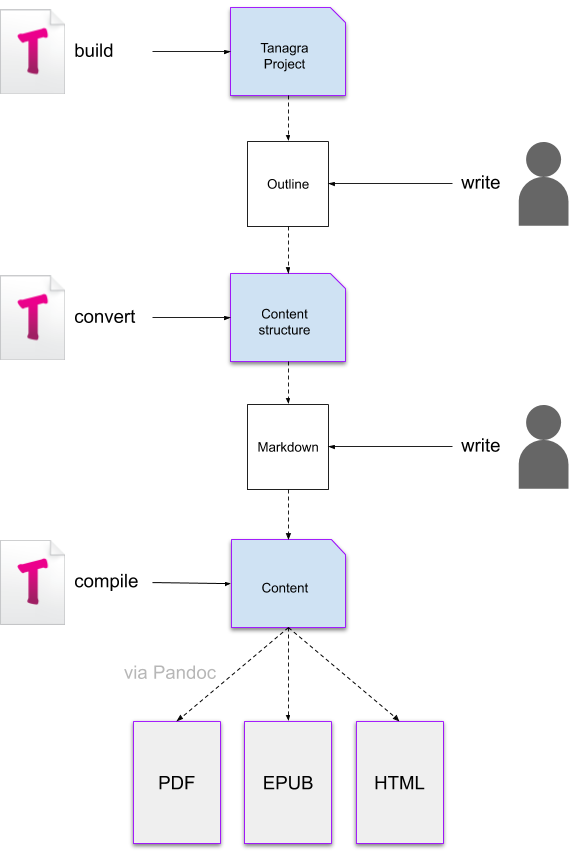
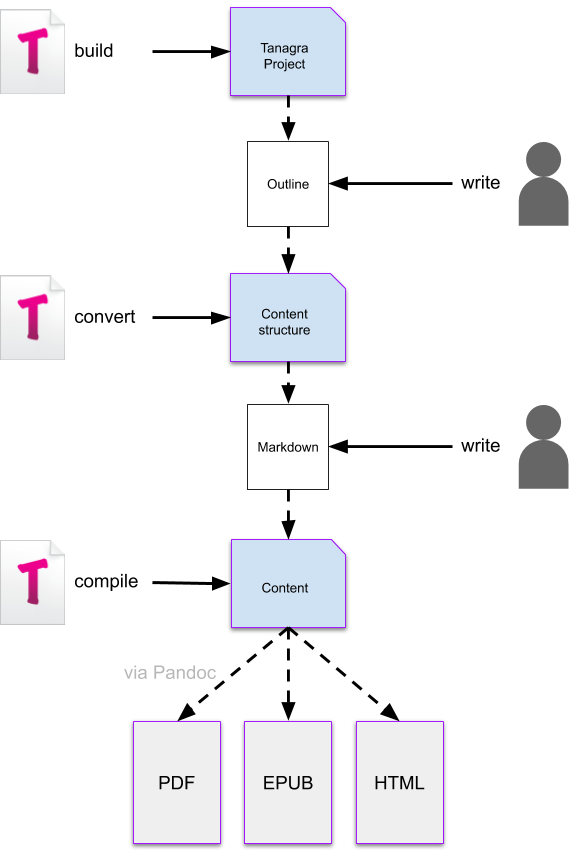
Thickening lines in diagrams.

diff --git a/docs/overview.md b/docs/overview.md
@@ -16,8 +16,8 @@ Tanagra is a documentation pipeline tool for building a template for a markdown-
 1. **Decide on a topic for your book.** Tangara cannot help you with this step. :)
 1. **Create a book template using Tanagra.** This will generate a book content directory, an `outline.md` file,
 1. **Populate your book's `outline.md` file.** Using markdown, populate the `outline.md` file generated in step 1 above. See the outline structure below.
-1. **Convert your book's `outline.md` file into a book directory hierarchy and markdown files.** This step will create a hierarchy of directories (per part and chapter) and markdown files (per chapter) with sections and subsections stubbed out in the markdown files.
-1. **Write your book in the markdown files.** Using the chapter markdown files, populate your book within the files and headings populated in the previous step.
+1. **Convert your book's `outline.md` file into a book directory hierarchy and markdown files.** This step will create a hierarchy of directories (per part and chapter) and markdown files (per chapter) with sections and subsections stubbed out in the markdown files. Each part will also have its own directory to store media (images, etc.) for local reference. These will be included in the final compilation later.
+1. **Write your book in the markdown files.** Using the chapter markdown files, populate your book within the files and headings populated in the previous step. Also, you can add images or other media files to each book part's media directory.
 1. **Generate the final output file(s) for your book.** Once you have completed writing your book in the markdown files, you can generate a PDF, EPUB, or HTML version of your book.
 1. **Publish your book.** Tanagra cannot help you with this step either. Upload, email, or do whatever you need to do with your generated book to deliver it to your audience.
 

diff --git a/docs/instructions/index.md b/docs/instructions/index.md
@@ -19,7 +19,7 @@ In general, the process to use Tanagra is as follows:
 1. **Build a book template.** See [Build a Book Template](build.html).
 1. **Populate the `outline.md` file**
 1. **Convert the completed outline file into a directory and file structure.** See [Convert an Outline into a Directory and File Structure](convert.html).
-1. **Write the content of your book in the generated files of the `content/` directory.**
+1. **Write the content of your book in the generated files of the `content/` directory and add any media files to each book part's media Directory.**
 1. **Compile markdown into a rendered book.** See [Compile Markdown into a Rendered Book](compile.html).
 
 ## Calling Tanagra

diff --git a/docs/index.md b/docs/index.md
@@ -7,7 +7,7 @@ title: Docs
 has_children: true
 nav_order: 1
 has_toc: false
-permalink: /docs/instructions/
+permalink: /docs/
 ---
 
 # Tanagra Documentation
@@ -16,7 +16,6 @@ permalink: /docs/instructions/
 1. [Introduction](overview.html)
 1. [Instructions](instructions/index.html)
    1. [Setup](instructions/setup.html)
-   1. [Instructions](instructions/index.html)
    1. [Build a Book Template](instructions/build.html)
    1. [Create a Book Outline](instructions/outline.html)
    1. [Convert an Outline into a Directory and File Structure](instructions/convert.html)
